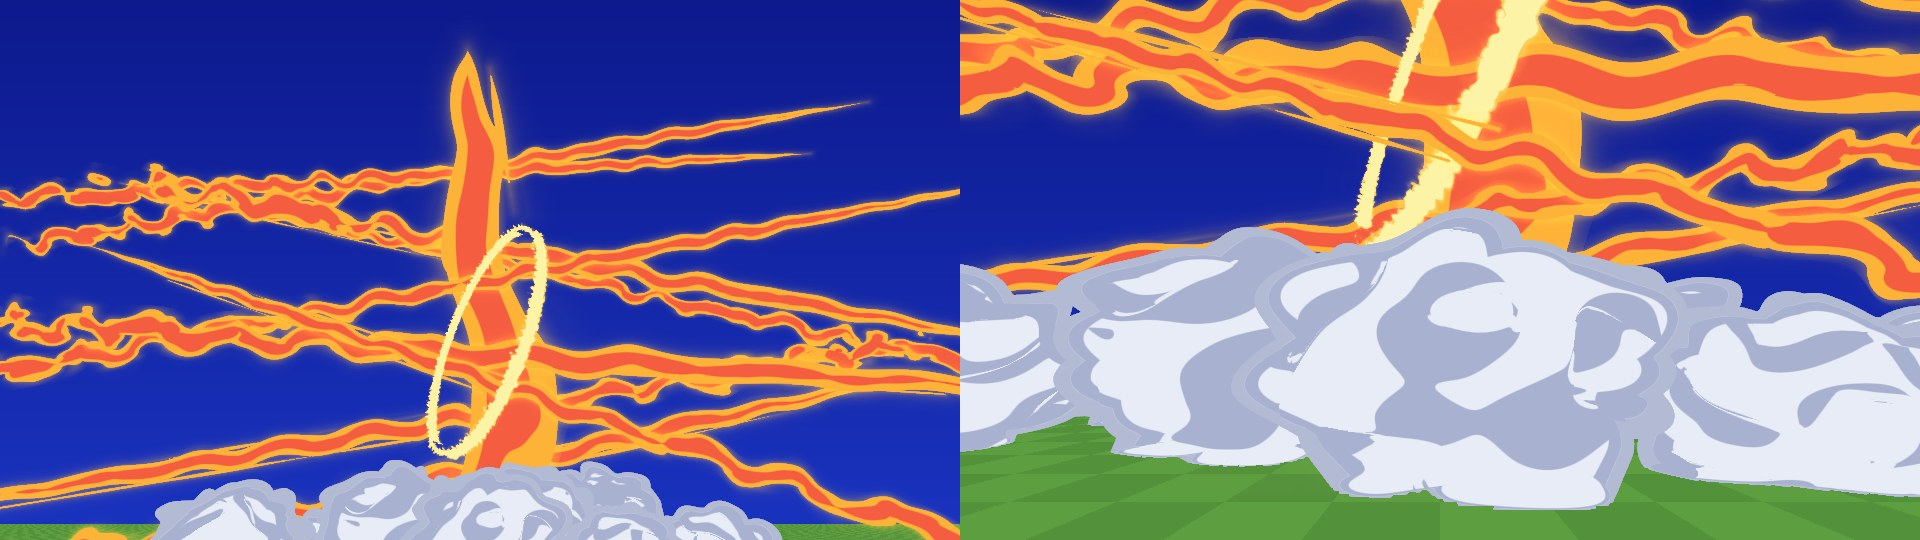
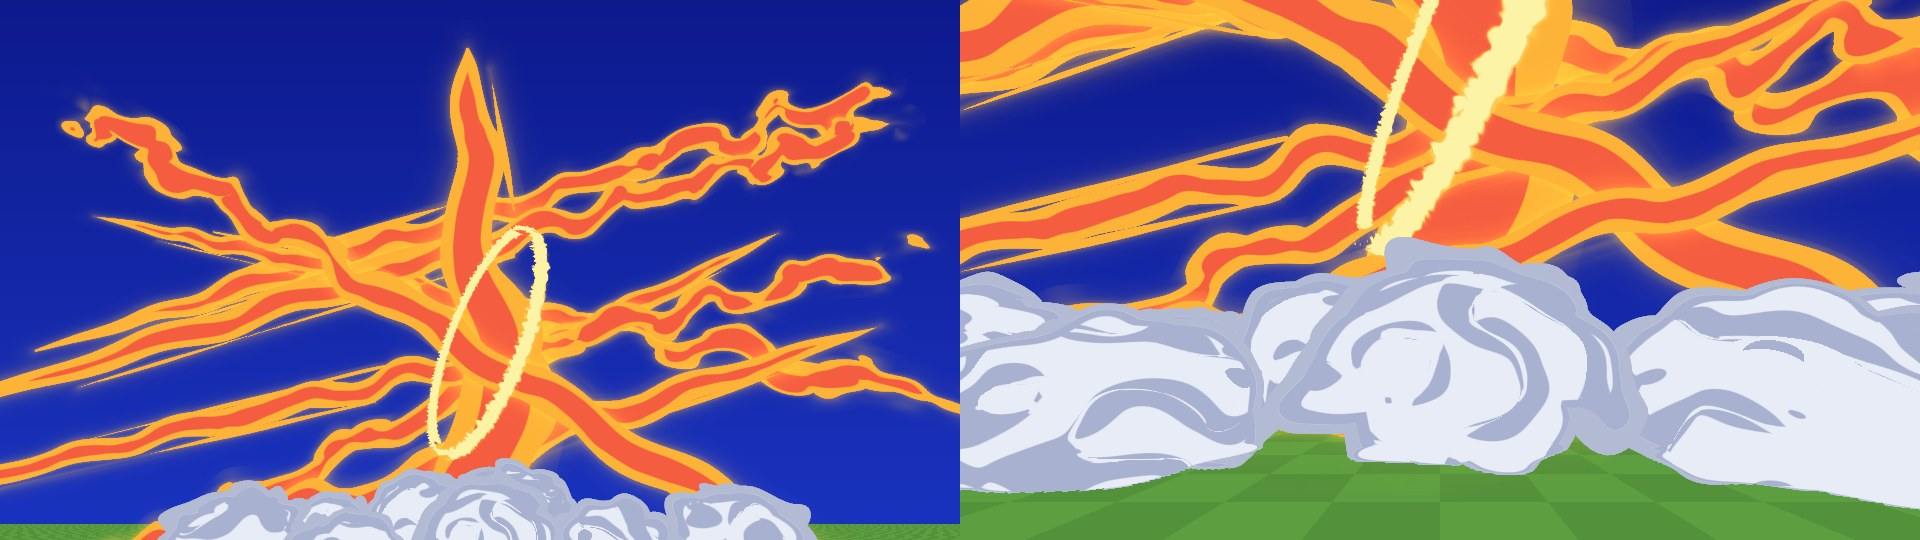
Mera anime: hoguera de Hidaruma plana, muro de cerca con rayos pálidos y estelas del Hiken en aspa
- La hoguera pálida (bola con paleta 19) se dibuja en una lámina de cara a la cámara: masa pálida con lenguas
  doradas en el filo, manchas doradas que suben y las víctimas como sombras (VolStyle.z = alto del centro).
- El muro, visto de cerca, lleva otra tanda de contornos menudos y quebrados (2:44); de lejos no cambia.
- Documentadas las estelas del Hiken: siete, más gruesas y cruzadas en aspa (0:38).
- El estilo realista sale idéntico.

Claude-Session: https://claude.ai/code/session_01TTf7fnrStK2iXDsozaVCTJ

diff --git a/docs/estilo-anime.md b/docs/estilo-anime.md
@@ -117,7 +117,12 @@ Paleta de cada forma cuando `VolStyle.y` es 0: bola 2 (el sol, 6), puño 1, colu
   `MeraVolumes.palette(3, …)`) aquí no es el ancho del borde: es el medio largo del muro entero. Con esos dos
   datos y la misma semilla, varios tramos seguidos dibujan una sola cortina sin costuras, y los extremos del muro
   bajan hasta el suelo en llamas. Si `VolStyle.z` es 0, el tramo se dibuja como un muro entero él solo. No hace
-  falta que los tramos se monten: cada uno llega justo hasta su vecino. Referencia del banco:
+  falta que los tramos se monten: cada uno llega justo hasta su vecino. Visto de cerca (2:44, con cada vuelta de
+  0,9 bloques ocupando más de 0,16 radianes desde la cámara, es decir a menos de unos 5 bloques), las láminas de
+  fuera llevan además otra tanda de contornos más menudos y quebrados, como rayos pálidos sobre el dorado, y las
+  franjas anchas casi desaparecen; de lejos esa tanda no se pinta (se confundiría en una trama). Va por el tamaño
+  visto desde la cámara y no por píxeles, así no cambia con la resolución (`docs/banco/muro-cerca.jpg`: de cerca y a
+  6 bloques). Referencia del banco:
   `docs/banco/muro-kyokaen.jpg`.
 - **Sol (bola con `prm.w` = 2)**: una esfera lisa con unas pocas llamaradas finas pegadas a la superficie. Con la
   paleta 13 es la cúpula roja del final de Entei: el centro en el suelo, para que se vea media esfera. Con la paleta
@@ -164,13 +169,18 @@ Paleta de cada forma cuando `VolStyle.y` es 0: bola 2 (el sol, 6), puño 1, colu
   alto), hasta 3,5 veces el ancho normal en el puño y 2,2 en las bolas. Con `VolStyle.z` > 0 manda ese valor.
 - **Ni engorda al acercarse**: en cualquier forma, el borde no pasa de un 6 % del alto de la pantalla (un chorro visto
   en primera persona es amarillo con el filo naranja, no una mancha naranja).
-- **Bola (0) con la paleta 19: la hoguera pálida de Hidaruma** (1:54). Una masa amarillo pálido con la orilla en
-  llamitas doradas y, por dentro, llamitas sueltas que suben. Lo que arde dentro (los que han prendido, el suelo) se
-  adivina a través del fuego, como las siluetas de la serie; el cielo y lo de detrás, no. Eso, solo con la cámara
-  dentro o pegada a la hoguera: de lejos es una masa cerrada (si no, por la base se veía el suelo y parecía hueca).
-  Una sola bola que los
-  cubra a todos (centro en el medio del grupo, a 1,6 de alto; radio = lo que haga falta para taparlos más 2,5); con
-  varias bolas pequeñas se ven los bordes de unas sobre otras.
+- **Bola (0) con la paleta 19: la hoguera pálida de Hidaruma** (1:54-1:56). En anime no se recorre como un
+  volumen: es un dibujo plano en una lámina que pasa por el centro y mira a la cámara (algo inclinada si se mira
+  desde arriba). Una masa ancha amarillo pálido, de 1,25 radios de medio ancho y un radio de alto sobre el centro,
+  que por arriba y por los lados se abre en lenguas anchas separadas por muescas en punta: naranja en el filo,
+  dorado un poco más adentro y luego pálido; por fuera, un resplandor corto que sobre el cielo oscuro se ve pardo,
+  como en la serie. Por dentro, manchas doradas blandas y alargadas hacia arriba, como lenguas pequeñas, que suben.
+  Lo que hay dentro de la hoguera y no es el suelo (los que arden) se ve como una sombra a través del fuego, esté
+  delante o detrás de la lámina; para eso `VolStyle.z` (el segundo número de `MeraVolumes.palette(19, …)`) dice a
+  qué altura sobre el suelo está el centro (1,6); con 0 no hay sombras ni corte por el suelo. Con la cámara dentro,
+  un velo pálido por toda la vista. Antes era una bola recorrida y salía como bolsas redondas con un filo duro.
+  Una sola bola que los cubra a todos (centro en el medio del grupo, a 1,6 de alto; radio 4,5); con varias bolas
+  pequeñas se ven los bordes de unas sobre otras. Referencia del banco: `docs/banco/hoguera-hidaruma.jpg`.
 - **Las bolas grandes** (más de 2,6 bloques de radio) no llevan lenguas más largas que una de 2,6: las bolsas tampoco
   crecen con la bola, y con lenguas de dos bloques sobre bolsas de uno una hoguera vista de lejos era un fleco de
   pelos con escalones. Y ninguna lengua llega a la esfera que envuelve la bola (antes las de los lados salían
@@ -247,17 +257,17 @@ En estilo anime:
 
 | Técnica | Paleta | Cómo es en el vídeo |
 | --- | --- | --- |
-| Hiken | 1, 16 y 14 | Un puño enorme y redondo: masa roja, borde amarillo, líneas amarillas entre los dedos. Va dibujado encima de su cuerpo de fuego, con su propio contorno (0:32). Detrás, un cuerpo de fuego que se ensancha hasta el doble del puño (un cometa, 0:34), con el amarillo muy ancho (de lado se ve casi tanto amarillo como rojo) y el borde de dentro subiendo y bajando como las llamas, bandas amarillas anchas que cruzan la masa roja a lo largo y la parten en dos o tres manchas (0:33; las pinta el sombreador, solo en el cuerpo de fuego y no en el puño) y cintas amarillas finas que se rizan alrededor. Al salir del brazo, masas rojas con manchas negras (bolas con paleta 1, 0:24). El golpe es una media bola roja y limpia con el filo amarillo (bola con paleta 16, 0:36) y, para quien queda dentro, la pantalla roja con cuñas amarillas y esquirlas negras (otra bola en el mismo sitio con paleta 1 y `VolStyle.w` de 2 a 3, que solo pone el fotograma, 0:37; ese fotograma se dibuja el último de todos los volúmenes, para que ningún otro fuego lo tape). Después quedan tres segundos y medio de lo que deja el golpe (0:38-0:41, referencia del banco en `docs/banco/final-hiken.jpg`), colocado cada fotograma de cara a quien mira: con `v` la dirección horizontal de la cámara al golpe, `r` su derecha, `g` el suelo bajo el golpe y `s` la distancia horizontal de la cámara al golpe partida por 19 (entre 0,7 y 1,2), que multiplica todas las medidas. Un tronco rojo vertical que sube del golpe (lanza con paleta 14, ancho del borde 0,30 y `prm.z` = 2, largo 30, radio 1,4, centro a 15,25 sobre el suelo, apenas inclinada); nueve estelas finas y largas, más amarillas que rojas, casi horizontales, que cruzan todo el cielo a distintas alturas (lanzas con paleta 14, ancho del borde 0,30 y `prm.z` = 2, largo 36 a 48, radio 0,32 a 0,50, altura de 2 a 24, hasta 5 bloques a cada lado y de 1 por delante a 6 por detrás del golpe, con 12 grados de inclinación y 8 de giro como mucho, y dos en diagonal, a 14-22 grados); un aro fino y pálido, inclinado, a media altura del tronco (anillo con paleta 11, radio 6, alto 0,3 y medio grosor 0,14, a 10 sobre el suelo, con el eje girado 65 grados respecto a la cámara y levantado 0,2 radianes); y nueve bolas de polvo blanco a ras de suelo a los lados del tronco (bolas con `prm.y` = 1, radio 1,8 a 3). Antes eran 10 chorros con rumbo al azar, tres llamas finas y un tronco por donde pasó el puño, y desde atrás se veía un revoltijo; y después siete chorros gordos y rojos, apiñados en una franja, con un tronco demasiado grueso. El golpe del Hiken no se enfría en humo blanco: la bola sigue siendo fuego y se apaga pronto (ya no está cuando se ven los chorros). |
+| Hiken | 1, 16 y 14 | Un puño enorme y redondo: masa roja, borde amarillo, líneas amarillas entre los dedos. Va dibujado encima de su cuerpo de fuego, con su propio contorno (0:32). Detrás, un cuerpo de fuego que se ensancha hasta el doble del puño (un cometa, 0:34), con el amarillo muy ancho (de lado se ve casi tanto amarillo como rojo) y el borde de dentro subiendo y bajando como las llamas, bandas amarillas anchas que cruzan la masa roja a lo largo y la parten en dos o tres manchas (0:33; las pinta el sombreador, solo en el cuerpo de fuego y no en el puño) y cintas amarillas finas que se rizan alrededor. Al salir del brazo, masas rojas con manchas negras (bolas con paleta 1, 0:24). El golpe es una media bola roja y limpia con el filo amarillo (bola con paleta 16, 0:36) y, para quien queda dentro, la pantalla roja con cuñas amarillas y esquirlas negras (otra bola en el mismo sitio con paleta 1 y `VolStyle.w` de 2 a 3, que solo pone el fotograma, 0:37; ese fotograma se dibuja el último de todos los volúmenes, para que ningún otro fuego lo tape). Después quedan tres segundos y medio de lo que deja el golpe (0:38-0:41, referencia del banco en `docs/banco/final-hiken.jpg`), colocado cada fotograma de cara a quien mira: con `v` la dirección horizontal de la cámara al golpe, `r` su derecha, `g` el suelo bajo el golpe y `s` la distancia horizontal de la cámara al golpe partida por 19 (entre 0,7 y 1,2), que multiplica todas las medidas. Un tronco rojo vertical que sube del golpe (lanza con paleta 14, ancho del borde 0,30 y `prm.z` = 2, largo 30, radio 1,4, centro a 15,25 sobre el suelo, apenas inclinada); siete estelas largas que se cruzan en aspa por todo el cielo a distintas alturas (lanzas con paleta 14, ancho del borde 0,30 y `prm.z` = 2, largo 36 a 48, radio 0,55 a 0,80, altura de 2 a 24, hasta 5 bloques a cada lado y de 1 por delante a 6 por detrás del golpe, con 18 grados de inclinación y 8 de giro como mucho, y tres en diagonal, la segunda, la cuarta y la sexta, a 22-32 grados); un aro fino y pálido, inclinado, a media altura del tronco (anillo con paleta 11, radio 6, alto 0,3 y medio grosor 0,14, a 10 sobre el suelo, con el eje girado 65 grados respecto a la cámara y levantado 0,2 radianes); y nueve bolas de polvo blanco a ras de suelo a los lados del tronco (bolas con `prm.y` = 1, radio 1,8 a 3). Antes eran 10 chorros con rumbo al azar, tres llamas finas y un tronco por donde pasó el puño, y desde atrás se veía un revoltijo; después siete chorros gordos y rojos, apiñados en una franja, con un tronco demasiado grueso; y después nueve estelas finas casi paralelas, que no se cruzaban como en el 0:38. El golpe del Hiken no se enfría en humo blanco: la bola sigue siendo fuego y se apaga pronto (ya no está cuando se ven los chorros). |
 | Kagerō | 15 y 2 | Un haz estrecho que acaba en punta, naranja con rayas rojas y el filo amarillo (chorro con radio pedido 2,2 o más, 0:02); al dar en el blanco, una nube blanca y, el primer medio segundo, bolas amarillas con el borde rojo anaranjado (bolas con paleta 2, de 1,6 a 2,4 de radio, 0:17). |
 | Higan | 11 | Cuñas amarillo pálido con el filo dorado blando: nacen en punta junto a Ace y se abren hacia delante (lanza con `prm.z` = 1, sin bola en la cabeza). |
 | Hibashira | 10, 9, 20 y 22 | Primero el remolino: un aro rojo que gira alrededor de Ace a la altura de la cintura, con llamas amarillas en el brazo (anillo con `prm.w` = 2), que va creciendo hasta ser casi todo llama amarilla pálida (`prm.w` de 2 a 2,49). Al salir la columna, quien está dentro ve la pantalla roja con llamas amarillas (1:14). Después el haz recto amarillo pálido, fino y alto (columna con radio pedido 2,1), pegado a él un muro de humo melocotón (anillo con `prm.w` = 1,25 y paleta 22) y detrás una masa roja con racimos de llamas amarillas (anillo con `prm.w` = 1,25 y paleta 20, 1:16-1:18). |
 | Enkai | 3 | Dos brazos de fuego dorado que giran alrededor de Ace y se abren deprisa hasta llenar la pantalla (1:24-1:25): dos remolinos (anillo con `prm.w` de 2 a 2,49 y paleta 3), uno con `dir` al revés que el otro. |
 | Hotarubi | 5 | Bolas lisas y redondas (no llamas), de 0,2 a 0,45 de radio: verdes en la orilla, casi blancas en el centro y con un halo verde suave. Una bola (forma 0) con paleta 5 sale ya así. |
-| Hidaruma | 12, 16, 3 y 19 | Sobre el que arde, unas 13 cuchillas de fuego afiladas, amarillas con el filo naranja y el centro pálido, sueltas, inclinadas hacia el mismo lado y repartidas por delante del cuerpo y a sus lados, de modo que el cuerpo se sigue viendo entre ellas (llamas con paleta 12, radio 0,14 a 0,20 y alto 1,2 a 1,7, con el borde en 0,16, 1:42). Con 22, más las del fuego que le queda prendido, en el juego salía una pared amarilla que tapaba a la víctima: mientras dura la técnica no se suman las cuchillas del fuego prendido. No hay bola roja a la vista: quien queda dentro ve la pantalla roja con llamas amarillas (una bola con paleta 16 y `VolStyle.w` de 2 a 3, que solo pone el fotograma, 1:42-1:43). Cuando prenden varios a la vez: un fogonazo pálido sobre cada uno (`VolStyle.w` en una bola con paleta 19 y radio 1,4; con la paleta 3 y radio 2 la hoguera se veía dorada y no pálida, 1:53) y después una hoguera amarillo pálido enorme que los envuelve a todos y deja adivinar sus siluetas (una bola con paleta 19, 1:54-1:56). Dentro de la hoguera no se dibujan las cuchillas de cada víctima: se veían como un garabato naranja en medio del fuego pálido. |
+| Hidaruma | 12, 16, 3 y 19 | Sobre el que arde, unas 13 cuchillas de fuego afiladas, amarillas con el filo naranja y el centro pálido, sueltas, inclinadas hacia el mismo lado y repartidas por delante del cuerpo y a sus lados, de modo que el cuerpo se sigue viendo entre ellas (llamas con paleta 12, radio 0,14 a 0,20 y alto 1,2 a 1,7, con el borde en 0,16, 1:42). Con 22, más las del fuego que le queda prendido, en el juego salía una pared amarilla que tapaba a la víctima: mientras dura la técnica no se suman las cuchillas del fuego prendido. No hay bola roja a la vista: quien queda dentro ve la pantalla roja con llamas amarillas (una bola con paleta 16 y `VolStyle.w` de 2 a 3, que solo pone el fotograma, 1:42-1:43). Cuando prenden varios a la vez: un fogonazo pálido sobre cada uno (`VolStyle.w` en una bola con paleta 19 y radio 1,4; con la paleta 3 y radio 2 la hoguera se veía dorada y no pálida, 1:53) y después una hoguera amarillo pálido enorme que los envuelve a todos y deja adivinar sus siluetas (una bola con paleta 19 y `VolStyle.z` = 1,6, dibujada plana, 1:54-1:56; ver «Bola (0) con la paleta 19»). Dentro de la hoguera no se dibujan las cuchillas de cada víctima: se veían como un garabato naranja en medio del fuego pálido. |
 | Enjōmō | 3 | Un muro amarillo pálido que llena la pantalla. |
 | St. Elmo / Shiranui | 2, 3, 12 y 11 | Shiranui: una llama pequeña en cada mano, del tamaño de la mano (llama con paleta 2, radio 0,20 y alto 0,60, 1:59; con radio 0,32 y alto 0,95 eran más grandes que la cabeza, y una bola de radio 0,22 se veía como una diana), después los arcos naranja rojizo con el centro amarillo (2:00) y las lanzas, cometas amarillo vivo con el filo y el halo naranjas, anchos en la cabeza y en punta por detrás (lanza con `prm.z` = 1 y paleta 12, largo 4,5 y radio 0,45 a 0,55, 2:00,5-2:02). St. Elmo: mientras carga, una llama dorada de borde ondulado le sale del antebrazo hacia atrás y se va ensanchando (chorro con paleta 3, largo 3,2, radio 1,1 y `prm.z` 0,35, 2:09; las lanzas todavía no se ven); al soltar, el brazo barre y deja una banda dorada ancha que cruza por delante de Ace (chorro con paleta 3, largo, siguiendo a la mano, 2:10); las lanzas, columnas amarillo pálido muy largas y de ancho parejo, afiladas solo en la punta (lanza con `prm.z` = 2, paleta 11, largo 11 y radio 0,38, 2:11), que se clavan en el blanco y dejan fuego bajo en el suelo (2:12). |
 | Jūjika | 7, 11, 15, 18, 21 y 3 | Primero la cruz de los dedos: un «+» pequeño y gordo, amarillo limón, delante de las manos cruzadas (cruz con brazo 0,35, paleta 7, 2:14). De ella sale un haz fino amarillo pálido, casi transparente, que llega al blanco en medio segundo con la punta brillante (lanza con `prm.z` = 2, paleta 11 y radio 0,14; con 0,06 de lado era un hilo de un píxel, 2:15-2:16); después, por el haz corre una llamarada roja con el filo naranja y amarillo, alargada, que suelta jirones rojos (chorro o bolas con paleta 15, 2:16-2:17); nace 0,9 bloques por delante de las manos, para que vista desde atrás no tape a Ace. Donde llega, la cruz grande de llamas doradas (cruz con brazo 1,8 a 2,2, paleta 18, 2:22) y enseguida un estallido dorado en estrella, sin bola en el centro: cuatro brazos grandes y largos en línea con los de la cruz (lanzas con `prm.z` = 1, largo 6 y radio 1,4; con radio 2,0 era un erizo gordo y con 1,1 y sin llamas menores, agujas finas) y ocho llamas menores y finas entre ellos, dos en cada hueco (largo 3,2, radio 0,55), todos con la paleta 21 y casi en el plano de cara a quien la lanzó, con no más de 5 grados de inclinación (2:23). No es una cúpula ni lleva el fotograma del golpe. |
 | Cuerpo en llamas | 3 | Una masa dorada y lisa con brazos de fuego rizados, la orilla en bultos, huecos de cielo y el filo pálido y blando, que sube un bloque o más por encima de la cabeza y sale un bloque a cada lado; el cuerpo se ve entero delante (2:29). Es un dibujo plano de cara a la cámara (ver «Forma nueva: 9, AURA»). Un volumen AURA (forma 9, radio 0,55, alto 2,2 y fuerza 1; con radio 0,45, alto 1,9 y fuerza 0,6 era una funda pequeña) en vez de las llamas sueltas de hombros, brazos y espalda. `prm.w` es una fase fija por jugador, no un reloj. |
-| Kyōkaen | 3 | Una cortina dorada, plana y alta, con llamas en punta por arriba y en los extremos, franjas pálidas difusas y líneas pálidas quebradas por dentro (2:44, 2:46). Los tramos de terreno llano seguidos se juntan en un solo muro (ver «Muro (4)»). El vapor, blanco plano. |
+| Kyōkaen | 3 | Una cortina dorada, plana y alta, con llamas en punta por arriba y en los extremos, franjas pálidas difusas y líneas pálidas quebradas por dentro (2:46); de cerca, sobre todo rayos pálidos quebrados sobre el dorado (2:44). Los tramos de terreno llano seguidos se juntan en un solo muro (ver «Muro (4)»). El vapor, blanco plano. |
 | Dai Enkai | 2 | Primero un aro fino de fuego alrededor de Ace, de bloque y medio de radio (2:58); enseguida un disco naranja plano, pegado al suelo, con el centro liso, dos aros amarillos gordos en la mitad de fuera y la orilla naranja en llamitas pequeñas, de unos tres bloques y medio de radio, con Ace de pie en el centro y sin hueco a sus pies (anillo con `prm.w` = 0, radio 1,0, medio grosor 1,5 y alto 0,35, 2:59; con el grosor igual al radio quedaba un agujero en el centro). Después crece y se levantan las llamas rojas y amarillas con el centro pálido. |
 | Entei | 17, 6 y 13 | Mientras crece, un sol casi blanco con una orilla ancha de llamas amarillas y naranjas (paleta 17, 3:03-3:08). Ya formado, liso, con un filo amarillo muy fino, un resplandor naranja ancho y unas pocas llamaradas finas, amarillo dorado, onduladas y afiladas por las dos puntas, tendidas sobre su cara (las pinta el sombreador en la superficie; paleta 6, 3:09). En anime el sol no lleva llamas sueltas ni la lengua de la mano al sol. Al estallar, una cúpula roja con grietas naranjas y rayos naranjas blandos que llenan el cielo (bola lisa con paleta 13, 3:20-3:35; los rayos los pinta el sombreador, y para que lleguen lejos la esfera que envuelve ese volumen es 2,6 veces la de una bola normal); desde dentro todo se ve teñido de rojo. |
